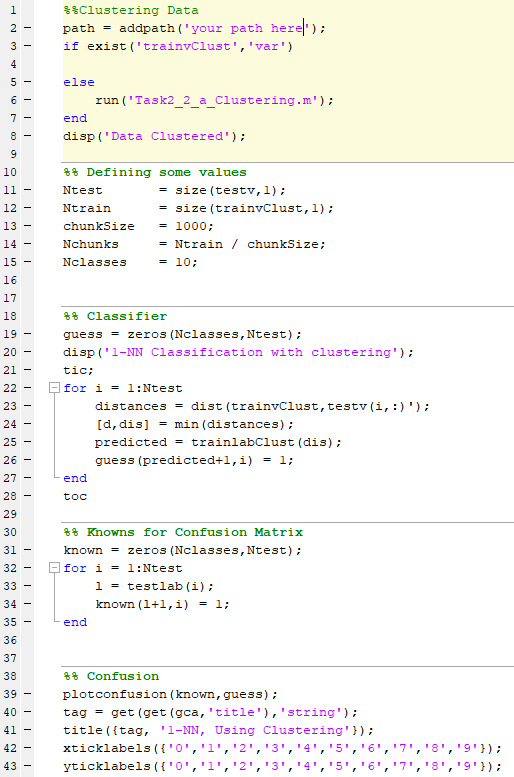
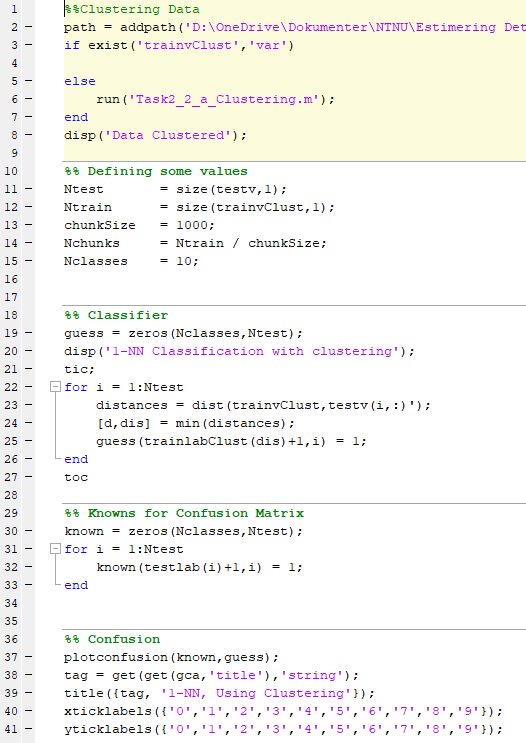
Small fix and some code cleanup

Changed region(s): [[0.0934, 0.0, 1.0, 0.8048], [0.1245, 0.8358, 0.965, 1.0], [0.0, 0.031, 0.0623, 0.9906]]

diff --git a/Task 2/Task2_2_c_7NN_Clustering.m b/Task 2/Task2_2_c_7NN_Clustering.m
@@ -23,11 +23,10 @@ tic;
 for i = 1:Ntest
     distances = dist(trainvClust,testv(i,:)');
     [~,idx] = sort(distances);
-    k_min = idx(1:k);
-    labels = trainlabClust(k_min);
+    kmin = idx(1:k);
+    labels = trainlabClust(kmin);
     num = 0:9;
-    count = hist(labels,num);
-    [~,pred] = max(count);
+    [~,pred] = max(hist(labels,num));
     guess(pred,i) = 1;
 end
 toc
@@ -35,8 +34,7 @@ toc
 %% Knowns for Confusion Matrix
 known = zeros(Nclasses,Ntest);
 for i = 1:Ntest
-    l = testlab(i);
-    known(l+1,i) = 1;
+    known(testlab(i)+1,i) = 1;
 end
 
 

diff --git a/Task 2/Task2_2_b_NN_Clustering.m b/Task 2/Task2_2_b_NN_Clustering.m
@@ -22,16 +22,14 @@ tic;
 for i = 1:Ntest
     distances = dist(trainvClust,testv(i,:)');
     [d,dis] = min(distances);
-    predicted = trainlabClust(dis);
-    guess(predicted+1,i) = 1;
+    guess(trainlabClust(dis)+1,i) = 1;
 end
 toc
 
 %% Knowns for Confusion Matrix
 known = zeros(Nclasses,Ntest);
 for i = 1:Ntest
-    l = testlab(i);
-    known(l+1,i) = 1;
+    known(testlab(i)+1,i) = 1;
 end
 
 
